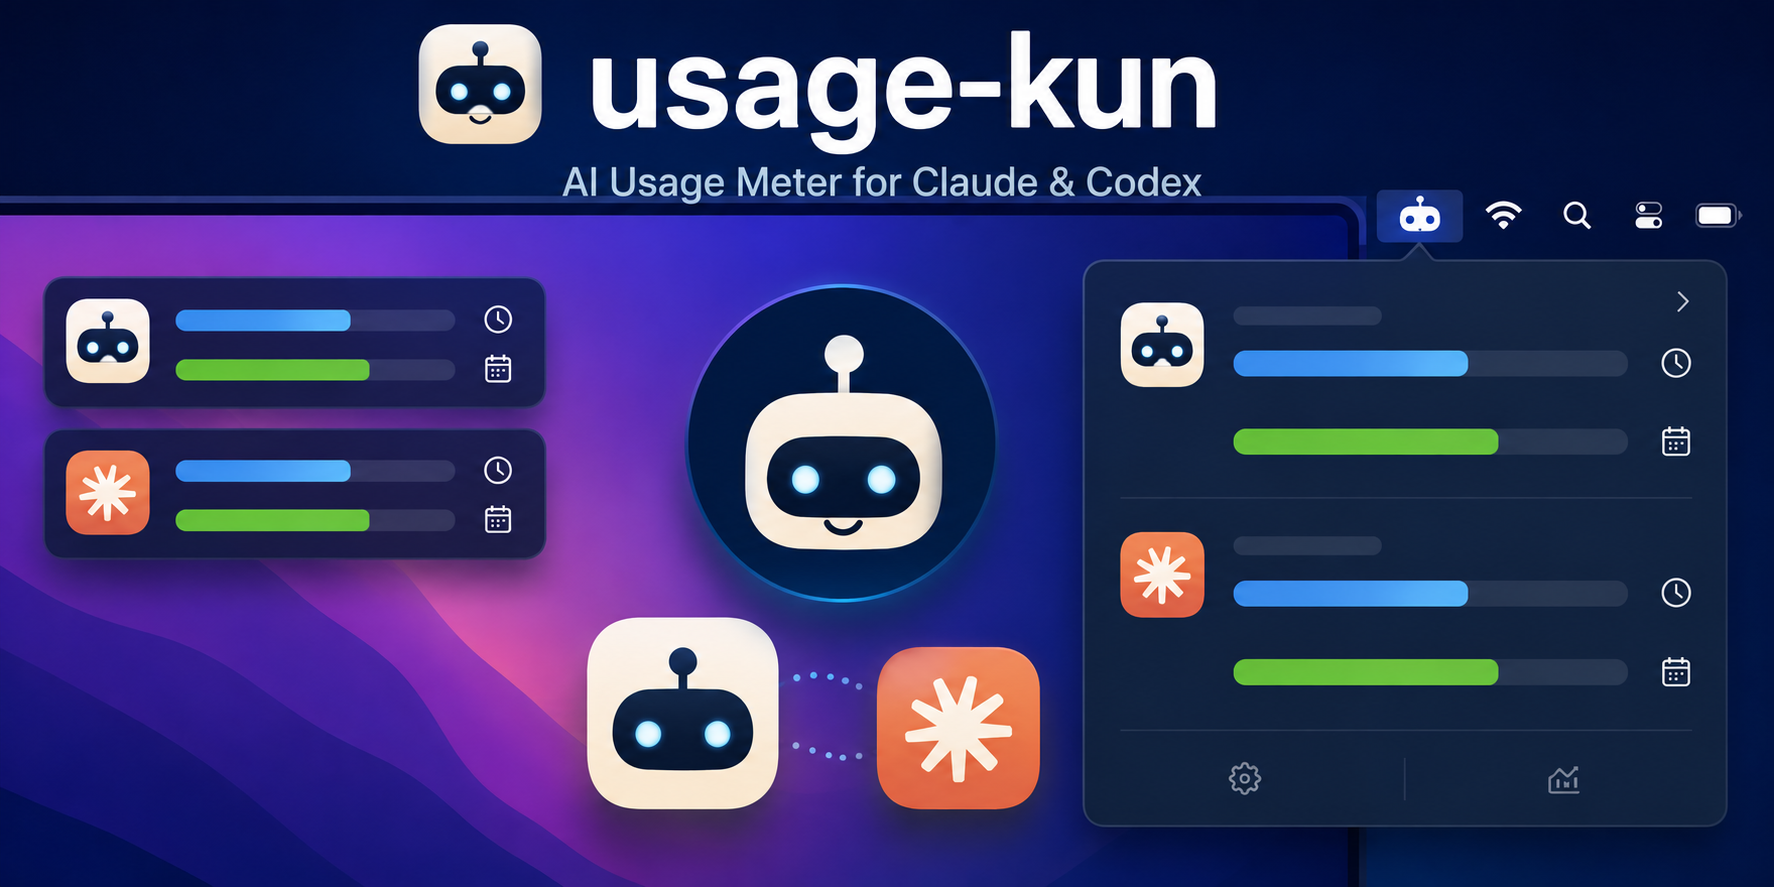
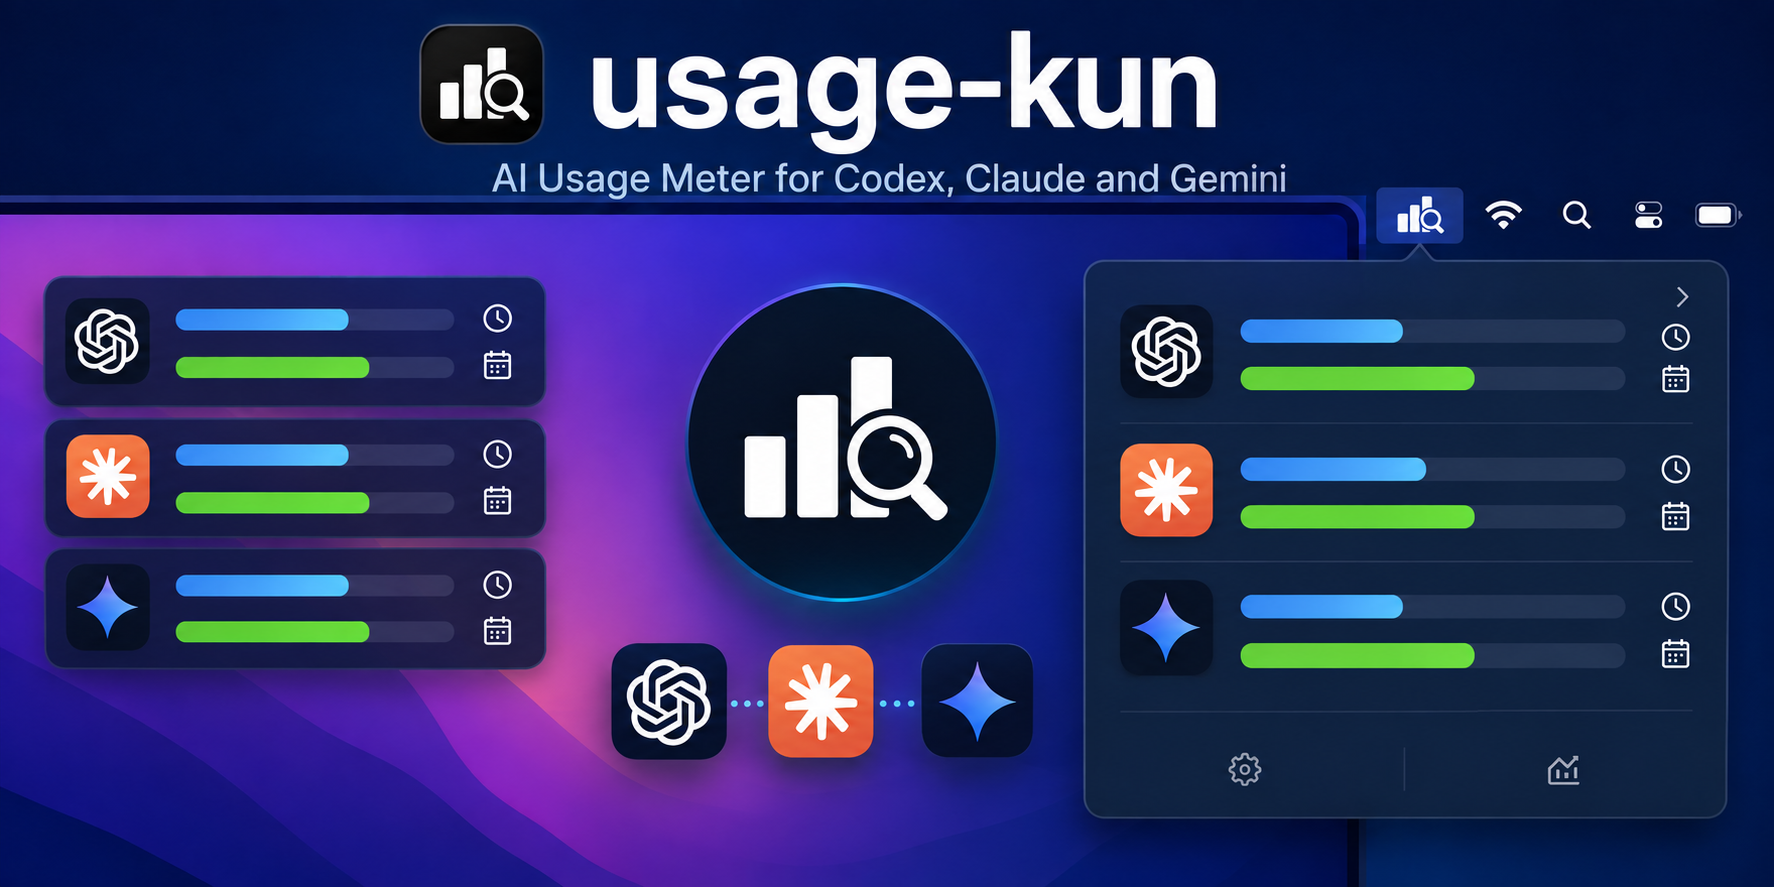
Update thumbnail for Codex, Claude and Gemini

diff --git a/README.ja.md b/README.ja.md
@@ -1,7 +1,7 @@
 # usage-kun
 
 <p align="center">
-  <img src="assets/usage-kun-thumbnail.png" alt="Claude と Codex の使用量メーターを示す usage-kun サムネイル">
+  <img src="assets/usage-kun-thumbnail.png" alt="Codex、Claude、Gemini の使用量メーターを示す usage-kun サムネイル">
 </p>
 
 <p align="center">

diff --git a/README.md b/README.md
@@ -1,7 +1,7 @@
 # usage-kun
 
 <p align="center">
-  <img src="assets/usage-kun-thumbnail.png" alt="usage-kun thumbnail showing an AI usage meter for Claude and Codex">
+  <img src="assets/usage-kun-thumbnail.png" alt="usage-kun thumbnail showing an AI usage meter for Codex, Claude and Gemini">
 </p>
 
 <p align="center">
